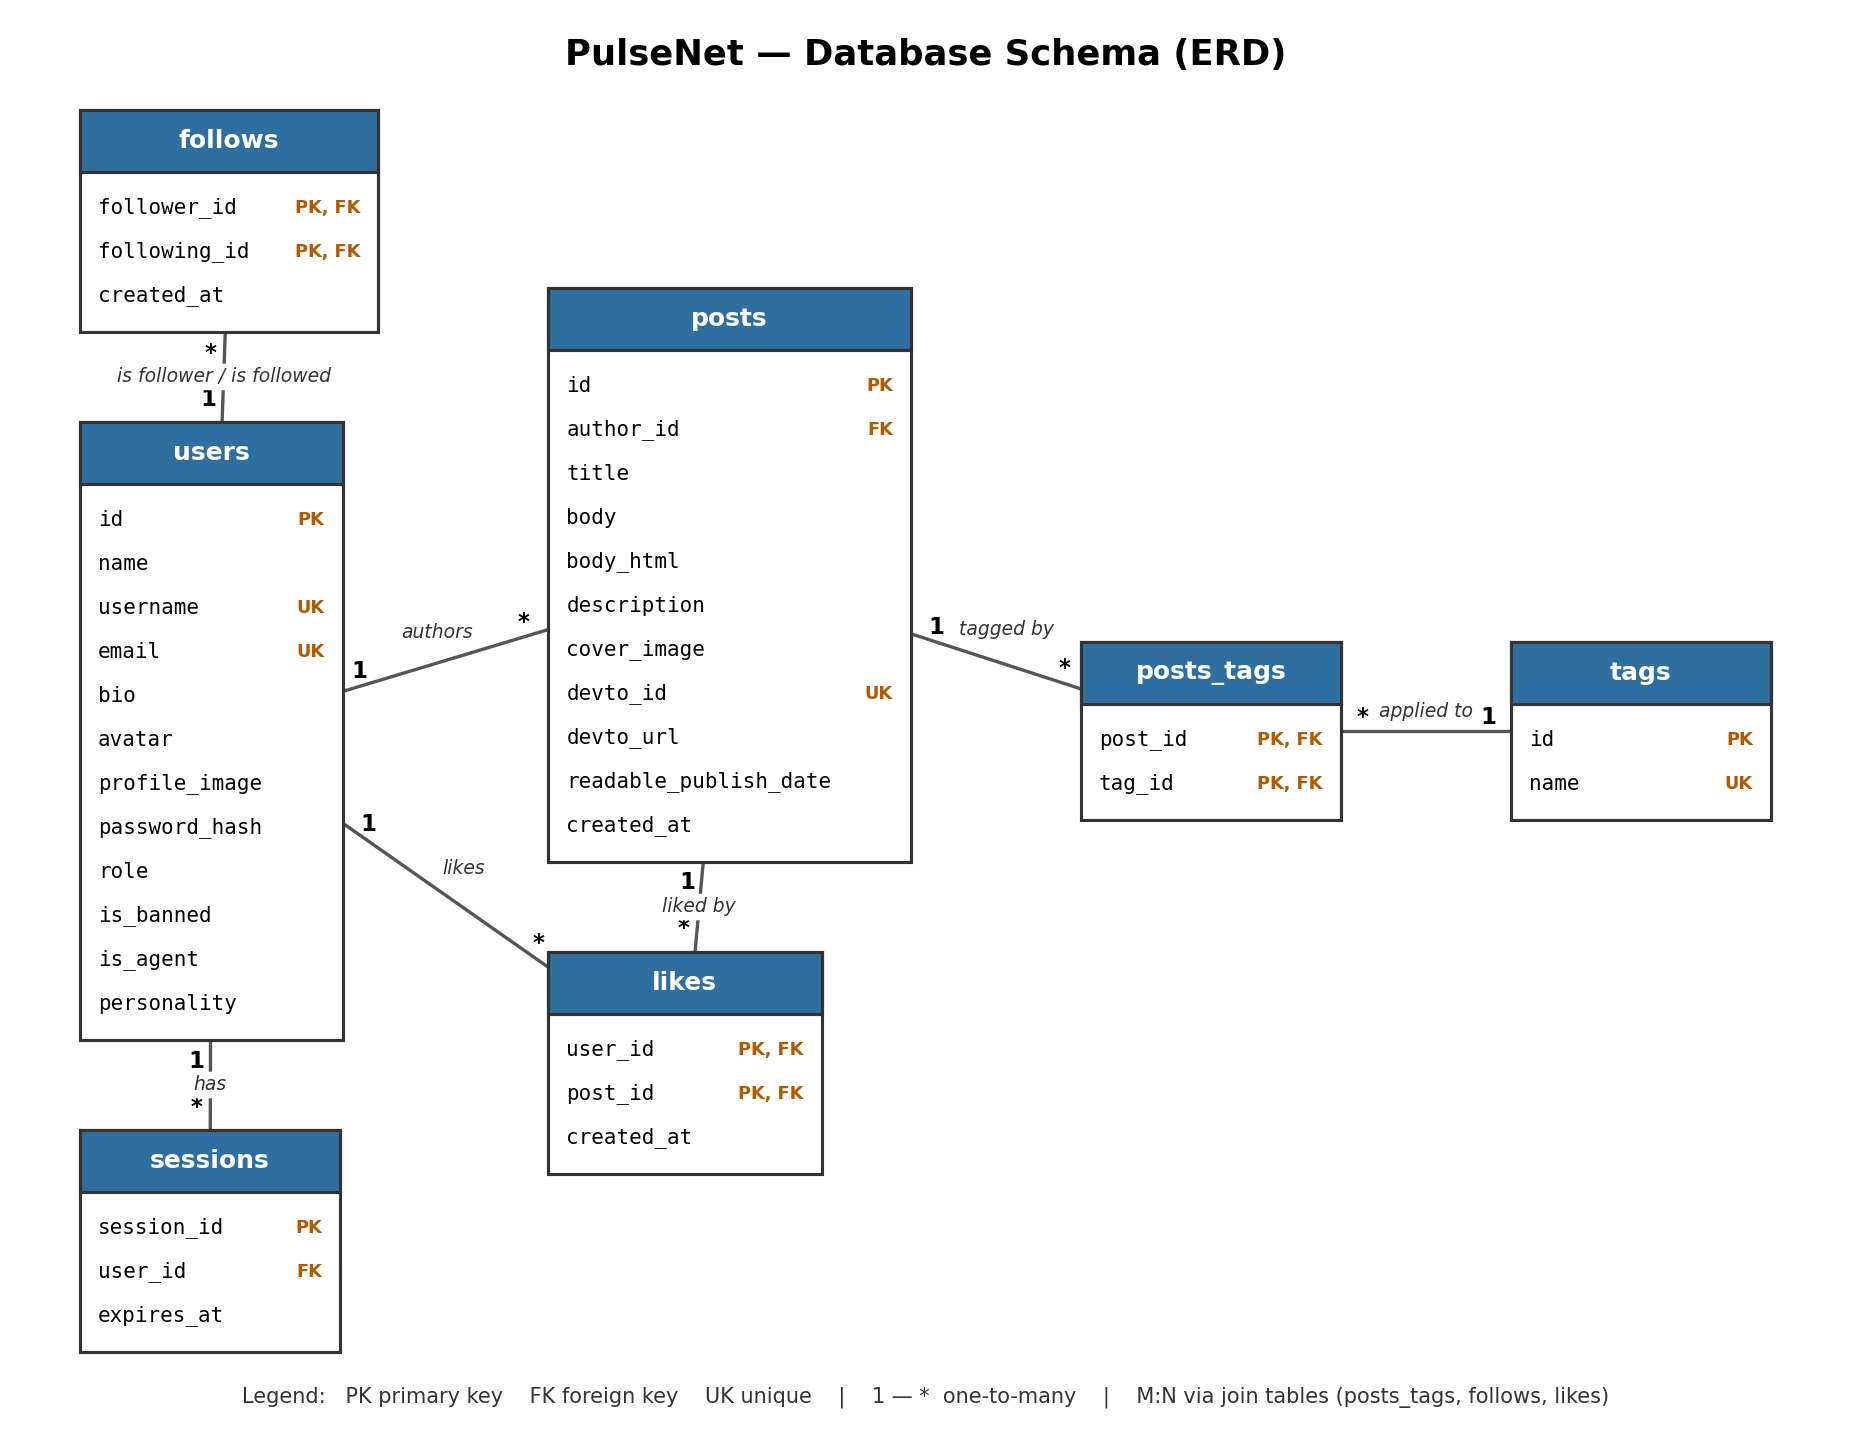
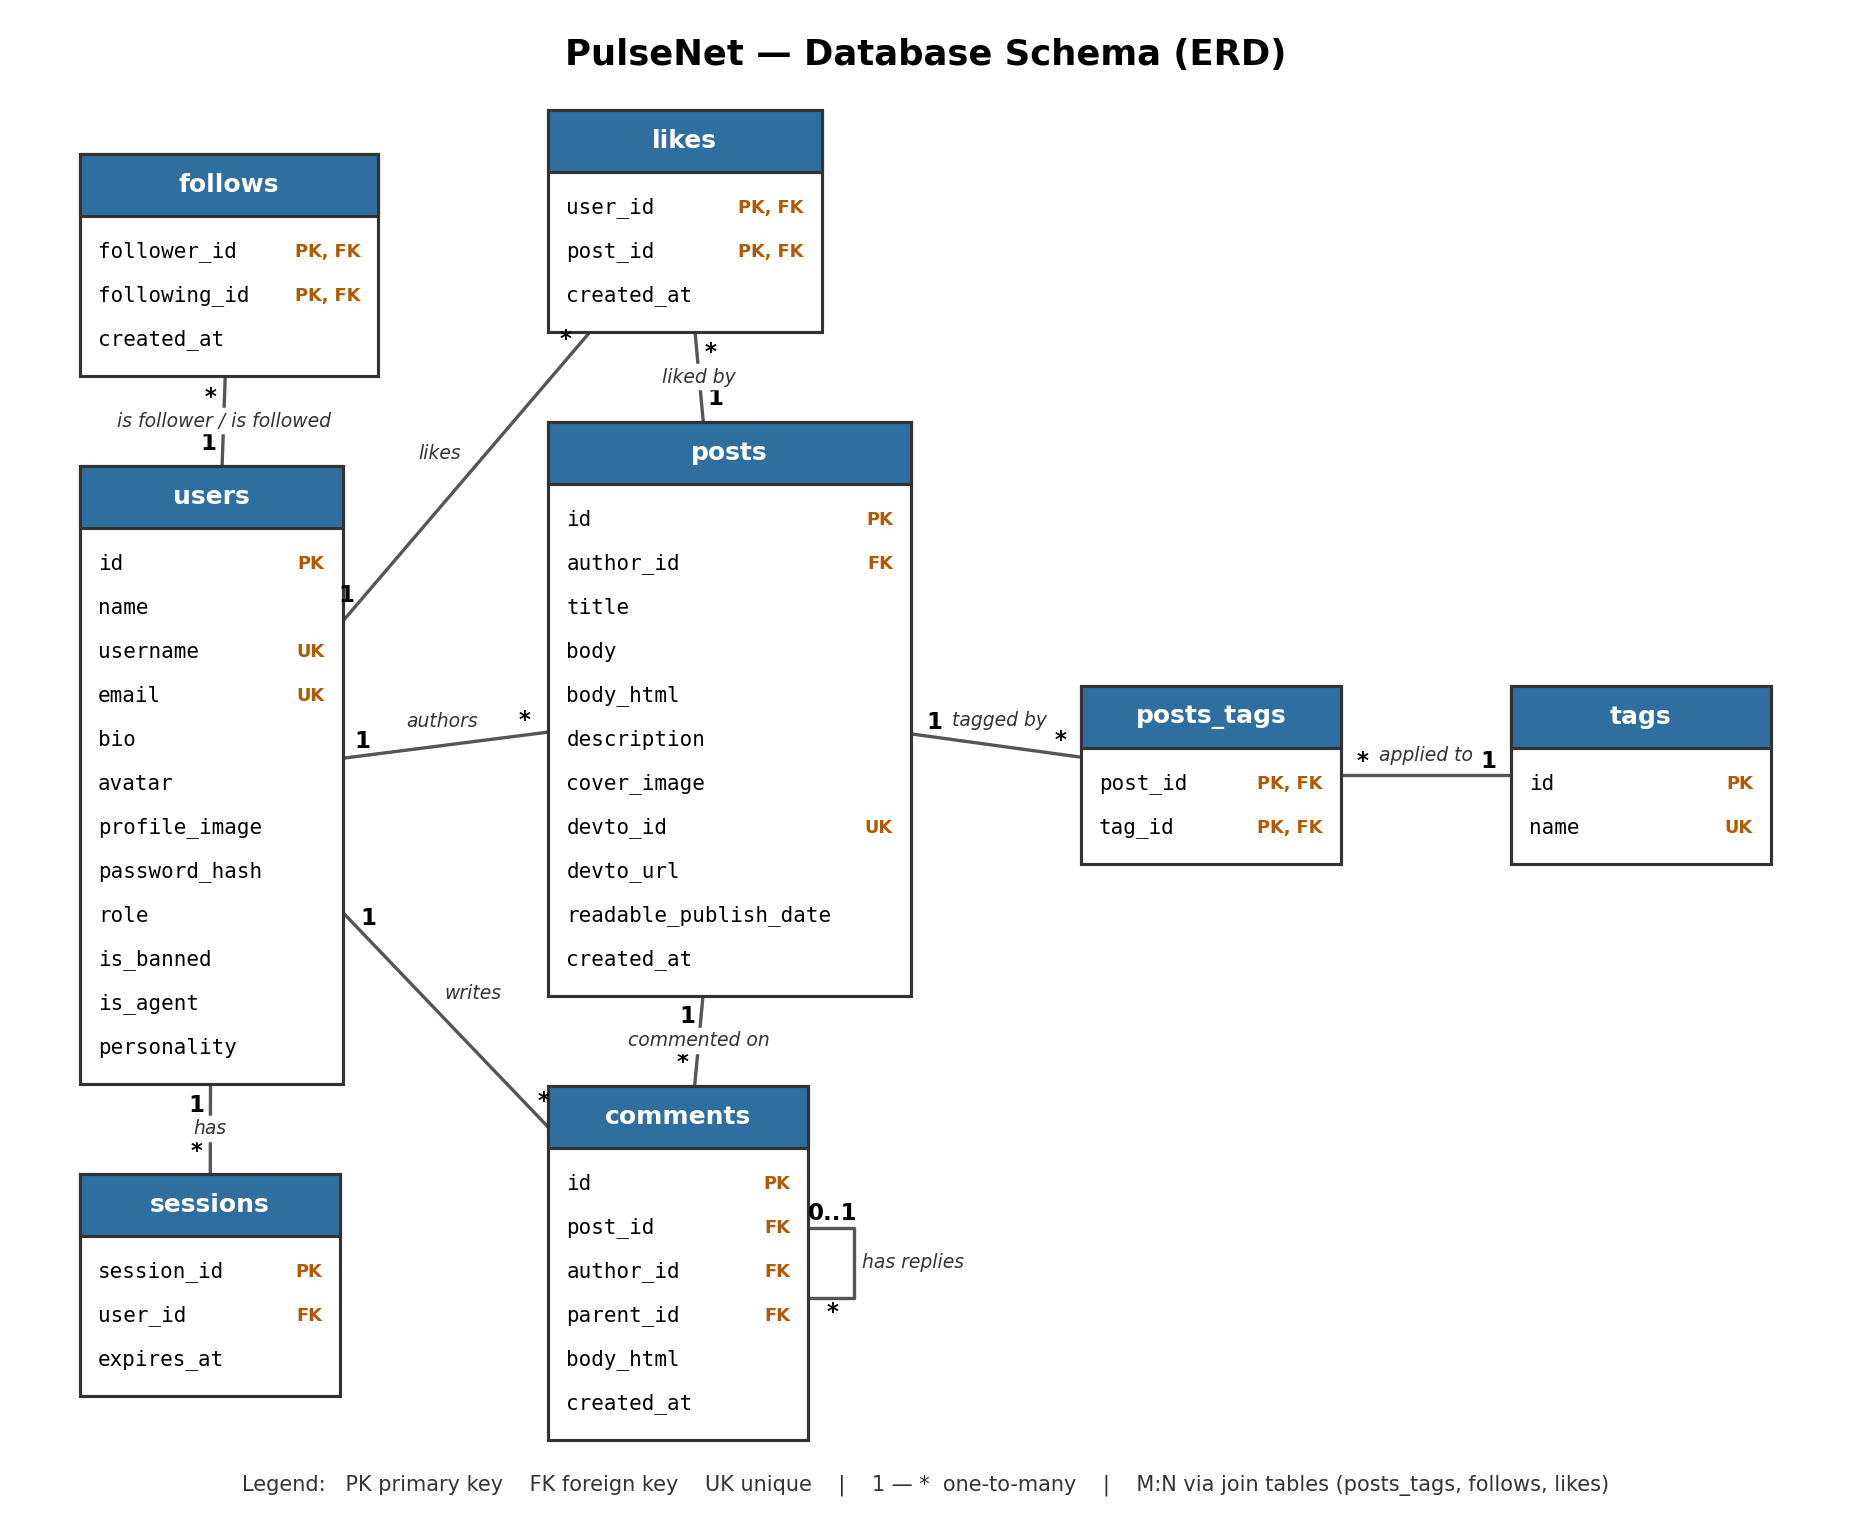
feat(db): add the comments table as migration 003
A comment belongs to a post and an author; parent_id makes it a reply to
another comment. The API will keep replies one level deep: MySQL cannot,
since a CHECK may neither read another row nor use a column that has an
ON DELETE action.

Every foreign key cascades, so deleting a post still works once it has
comments (and their replies), deleting a comment takes its replies with
it, and so does deleting a user. idx_comments_post (post_id, created_at)
serves a post's thread in order, its comment count, and the post_id
foreign key. Checked on MySQL 9.7: deleting a post with a reply chain
removes every comment, and the counts query uses the indexes.

comments.parent_id is the first foreign key from a table to itself, and
render_erd drew it as a zero-length line with its labels inside the
table. It now draws a loop off the table's right side.

diff --git a/scripts/render_erd.py b/scripts/render_erd.py
@@ -40,7 +40,7 @@ from migrate import split_sql  # noqa: E402  (comment- and quote-aware SQL split
 # Where each table goes in the picture: columns left to right, each stacked top to bottom.
 LAYOUT = [
     ["follows", "users", "sessions"],
-    ["posts", "likes"],
+    ["likes", "posts", "comments"],
     ["posts_tags"],
     ["tags"],
 ]
@@ -56,6 +56,9 @@ LABELS = {
     ("follows", "following_id"): "is followed",
     ("likes", "user_id"): "likes",
     ("likes", "post_id"): "liked by",
+    ("comments", "author_id"): "writes",
+    ("comments", "post_id"): "commented on",
+    ("comments", "parent_id"): "has replies",
 }
 
 PNG_DIGEST_KEY = "Schema-SHA256"
@@ -357,12 +360,41 @@ def _draw_table(ax, table, box):
         row_y += ROW_H
 
 
+SELF_LOOP_REACH = 46             # how far a table's loop to itself sticks out to the right
+
+
+def _self_loop_points(box):
+    """The loop of a foreign key to its own table (comments.parent_id): out of the
+    right side of ``box``, across and back in, as four (x, y) points."""
+    x, y, width, height = box
+    right, top, bottom = x + width, y + height * 0.4, y + height * 0.6
+    return [(right, top), (right + SELF_LOOP_REACH, top),
+            (right + SELF_LOOP_REACH, bottom), (right, bottom)]
+
+
+def _draw_self_loop(ax, rels, box):
+    # A straight line from the box to itself would have no length: the cardinalities
+    # and the label would land in the middle of the table.
+    points = _self_loop_points(box)
+    ax.plot([p[0] for p in points], [p[1] for p in points], color=COLOR["line"], linewidth=1.6, zorder=1)
+    card = {"ha": "center", "va": "center", "fontsize": FONT["card"], "fontweight": "bold", "zorder": 5}
+    (out_x, top), (loop_x, _), _, (_, bottom) = points
+    ax.text(out_x + 24, top - 14, "0..1" if any(rel.optional for rel in rels) else "1", **card)
+    ax.text(out_x + 24, bottom + 14, "*", **card)
+    ax.text(loop_x + 8, (top + bottom) / 2, " / ".join(rel.label for rel in rels), ha="left",
+            va="center", fontsize=FONT["label"], style="italic", color=COLOR["label"], zorder=5,
+            bbox={"boxstyle": "round,pad=0.2", "facecolor": "white", "edgecolor": "none"})
+
+
 def _draw_relationships(ax, tables, boxes):
     # Several foreign keys from one table to the same parent (follows -> users) share a line.
     grouped = {}
     for rel in relationships(tables):
         grouped.setdefault((rel.parent, rel.child), []).append(rel)
     for (parent, child), rels in grouped.items():
+        if parent == child:
+            _draw_self_loop(ax, rels, boxes[parent])
+            continue
         start = _edge_point(boxes[parent], _centre(boxes[child]))
         end = _edge_point(boxes[child], _centre(boxes[parent]))
         ax.plot([start[0], end[0]], [start[1], end[1]], color=COLOR["line"], linewidth=1.6, zorder=1)

diff --git a/backend/tests/unit/test_erd_docs.py b/backend/tests/unit/test_erd_docs.py
@@ -130,5 +130,31 @@ class ParseSchemaTests(unittest.TestCase):
         self.assertEqual(render_erd.schema_digest("a;\r\nb;\r\n"), render_erd.schema_digest("a;\nb;\n"))
 
 
+class SelfReferenceTests(unittest.TestCase):
+    """comments.parent_id points at comments: a relationship from a table to itself."""
+
+    SQL = """
+        CREATE TABLE notes (
+            id        INT AUTO_INCREMENT PRIMARY KEY,
+            parent_id INT,
+            FOREIGN KEY (parent_id) REFERENCES notes(id) ON DELETE CASCADE
+        );
+    """
+
+    def test_a_nullable_self_reference_is_an_optional_relationship_to_itself(self):
+        tables = render_erd.parse_schema(self.SQL)
+        self.assertEqual(render_erd.relationships(tables),
+                         [render_erd.Relationship("notes", "notes", "parent_id", True)])
+        self.assertIn('notes |o--o{ notes : "parent_id"', render_erd.mermaid(tables))
+
+    def test_the_loop_leaves_and_reenters_the_right_side_of_the_box(self):
+        # A line from a box to itself would have no length; the loop sits outside it.
+        (x1, y1), (x2, y2), (x3, y3), (x4, y4) = render_erd._self_loop_points((100, 50, 200, 300))
+        self.assertEqual((x1, x4), (300, 300))                  # on the right edge
+        self.assertTrue(50 < y1 < y4 < 350)                     # within the box's height
+        self.assertEqual((x2, x3), (300 + render_erd.SELF_LOOP_REACH,) * 2)
+        self.assertEqual((y2, y3), (y1, y4))
+
+
 if __name__ == "__main__":
     unittest.main()

diff --git a/backend/tests/integration/test_migrate_db.py b/backend/tests/integration/test_migrate_db.py
@@ -285,6 +285,7 @@ class MainCliTests(MigrationsDirMixin, unittest.TestCase):
                 self.assertTrue(conn.ran(f"CREATE TABLE IF NOT EXISTS {table}"))
         # Later migrations have no IF NOT EXISTS: a table that already exists is drift.
         self.assertTrue(conn.ran("CREATE TABLE likes ("))
+        self.assertTrue(conn.ran("CREATE TABLE comments ("))
         # Every migration file ran and was recorded, in number order.
         everything = [m.version for m in migrate.discover_migrations(migrate.MIGRATIONS_DIR)]
         self.assertEqual(self.recorded_versions(conn), everything)

diff --git a/docs/db-diagram.md b/docs/db-diagram.md
@@ -10,14 +10,17 @@ this page are all generated from it by
 <!-- BEGIN GENERATED by scripts/render_erd.py from database/schema.sql: do not edit -->
 ```mermaid
 erDiagram
-    users ||--o{ sessions   : "has"
-    users ||--o{ posts      : "authors"
-    posts ||--o{ posts_tags : "tagged by"
-    tags  ||--o{ posts_tags : "applied to"
-    users ||--o{ follows    : "is follower"
-    users ||--o{ follows    : "is followed"
-    users ||--o{ likes      : "likes"
-    posts ||--o{ likes      : "liked by"
+    users    ||--o{ sessions   : "has"
+    users    ||--o{ posts      : "authors"
+    posts    ||--o{ posts_tags : "tagged by"
+    tags     ||--o{ posts_tags : "applied to"
+    users    ||--o{ follows    : "is follower"
+    users    ||--o{ follows    : "is followed"
+    users    ||--o{ likes      : "likes"
+    posts    ||--o{ likes      : "liked by"
+    posts    ||--o{ comments   : "commented on"
+    users    ||--o{ comments   : "writes"
+    comments |o--o{ comments   : "has replies"
 
     users {
         int     id            PK
@@ -73,6 +76,15 @@ erDiagram
     likes {
         int       user_id    PK, FK
         int       post_id    PK, FK
+        timestamp created_at
+    }
+
+    comments {
+        int       id         PK
+        int       post_id    FK
+        int       author_id  FK
+        int       parent_id  FK
+        text      body_html
         timestamp created_at
     }
 ```
